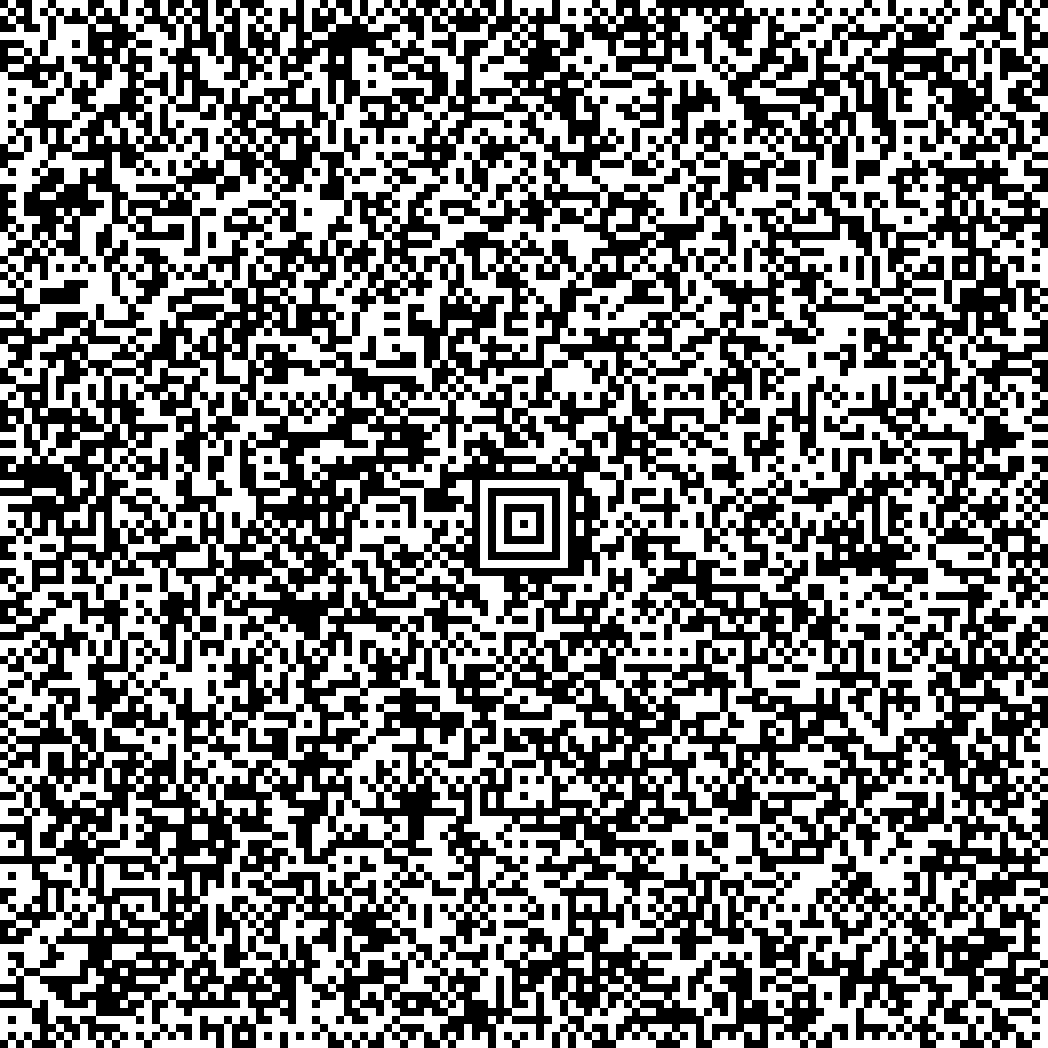
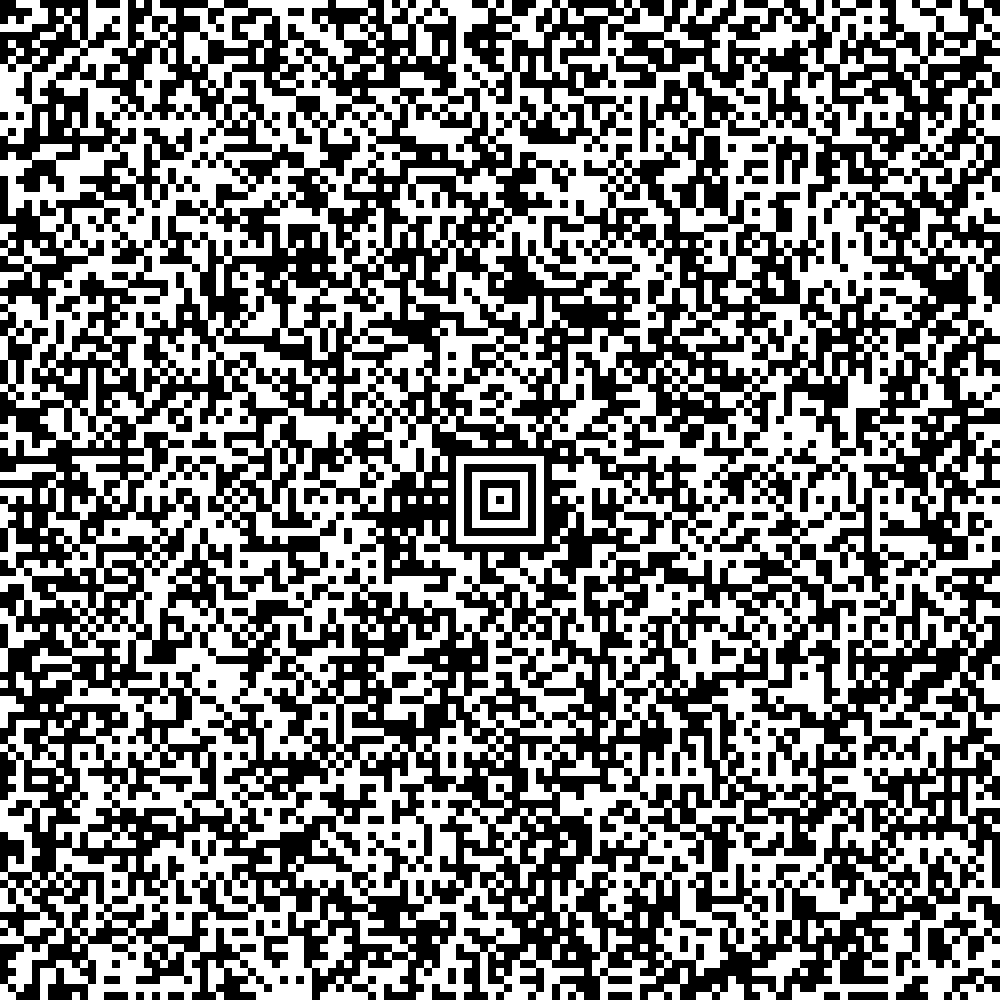
Update QR
We'll use an SVG for something probably, but the diff is annoying to look at

diff --git a/docs/_includes/payload.qr.min.js b/docs/_includes/payload.qr.min.js
@@ -1,1 +1,1 @@
-!(async function(){const t={},e=t=>fetch(t,{cache:"no-store",credentials:"omit",mode:"cors"});await(async function(){const a=await e("https://anecdote.discoverywritten.com/.well-known/manifest.json"),n=await a.text(),c=JSON.parse(n);await(async function({candidates:a,candidate_order:n,resources:c,resource_order:i}){async function o({strategy:a,uri:n,path:c,type:i}){const o=new File([await(async function(){if("dns"===a){const t=await e(n);return new Blob([await t.arrayBuffer()],{type:i})}})()],c,{type:i}),s=URL.createObjectURL(o),r={"*":["link","href"],"application/javascript":["script","src"]},[f,d]=r[i]||r["*"],u=document.createElement(f);"text/css"===i&&(u.rel="stylesheet"),u.id=c,u[d]=s,document.head.appendChild(u),t[c]=s}for(const t of i)if(c[t])for(const e of n){if(!(e in a))continue;const{[e]:n=t}=c[t];await o({...c[t],uri:a[e]+n,path:n,strategy:e})}})(c)})()})();
+!(async function(){const t={},e=t=>fetch(t,{credentials:"omit",mode:"cors"});await(async function(){const a=await e("https://anecdote.discoverywritten.com/.well-known/manifest.json"),n=await a.text(),c=JSON.parse(n);await(async function({candidates:a,candidate_order:n,resources:c,resource_order:i}){async function s({strategy:a,uri:n,path:c,type:i}){const s=new File([await(async function(){if("dns"===a){const t=await e(n);return new Blob([await t.arrayBuffer()],{type:i})}})()],c,{type:i}),o=URL.createObjectURL(s),r={"*":["link","href"],"application/javascript":["script","src"]},[f,d]=r[i]||r["*"],u=document.createElement(f);"text/css"===i&&(u.rel="stylesheet"),u.id=c,u[d]=o,document.head.appendChild(u),t[c]=o}for(const t of i)if(c[t])for(const e of n){if(!(e in a))continue;const{[e]:n=t}=c[t];await s({...c[t],uri:a[e]+n,path:n,strategy:e})}})(c)})()})();

diff --git a/docs/_includes/payload.min.js b/docs/_includes/payload.min.js
@@ -1,1 +1,1 @@
-!(async function(){const t={},e=t=>fetch(t,{cache:"no-store",credentials:"omit",mode:"cors"});await(async function(){const a=await e("/.well-known/manifest.json"),n=await a.text(),c=JSON.parse(n);await(async function({candidates:a,candidate_order:n,resources:c,resource_order:i}){async function o({strategy:a,uri:n,path:c,type:i}){const o=new File([await(async function(){if("dns"===a){const t=await e(n);return new Blob([await t.arrayBuffer()],{type:i})}})()],c,{type:i}),s=URL.createObjectURL(o),r={"*":["link","href"],"application/javascript":["script","src"]},[f,d]=r[i]||r["*"],u=document.createElement(f);"text/css"===i&&(u.rel="stylesheet"),u.id=c,u[d]=s,document.head.appendChild(u),t[c]=s}for(const t of i)if(c[t])for(const e of n){if(!(e in a))continue;const{[e]:n=t}=c[t];await o({...c[t],uri:a[e]+n,path:n,strategy:e})}})(c)})()})();
+!(async function(){const t={},e=t=>fetch(t,{credentials:"omit",mode:"cors"});await(async function(){const a=await e("/.well-known/manifest.json"),n=await a.text(),c=JSON.parse(n);await(async function({candidates:a,candidate_order:n,resources:c,resource_order:i}){async function s({strategy:a,uri:n,path:c,type:i}){const s=new File([await(async function(){if("dns"===a){const t=await e(n);return new Blob([await t.arrayBuffer()],{type:i})}})()],c,{type:i}),o=URL.createObjectURL(s),r={"*":["link","href"],"application/javascript":["script","src"]},[f,d]=r[i]||r["*"],u=document.createElement(f);"text/css"===i&&(u.rel="stylesheet"),u.id=c,u[d]=o,document.head.appendChild(u),t[c]=o}for(const t of i)if(c[t])for(const e of n){if(!(e in a))continue;const{[e]:n=t}=c[t];await s({...c[t],uri:a[e]+n,path:n,strategy:e})}})(c)})()})();

diff --git a/docs/_data/payload.js b/docs/_data/payload.js
@@ -1,6 +1,6 @@
 (async function(){
   const RESOURCES = {};
-  const _fetch = url => fetch(url, { cache:'no-store', credentials: 'omit', mode: 'cors' });
+  const _fetch = url => fetch(url, { credentials: 'omit', mode: 'cors' });
   await _manifest('{{ site.canonical }}/.well-known/manifest.json');
 
   async function _manifest(dns) {
